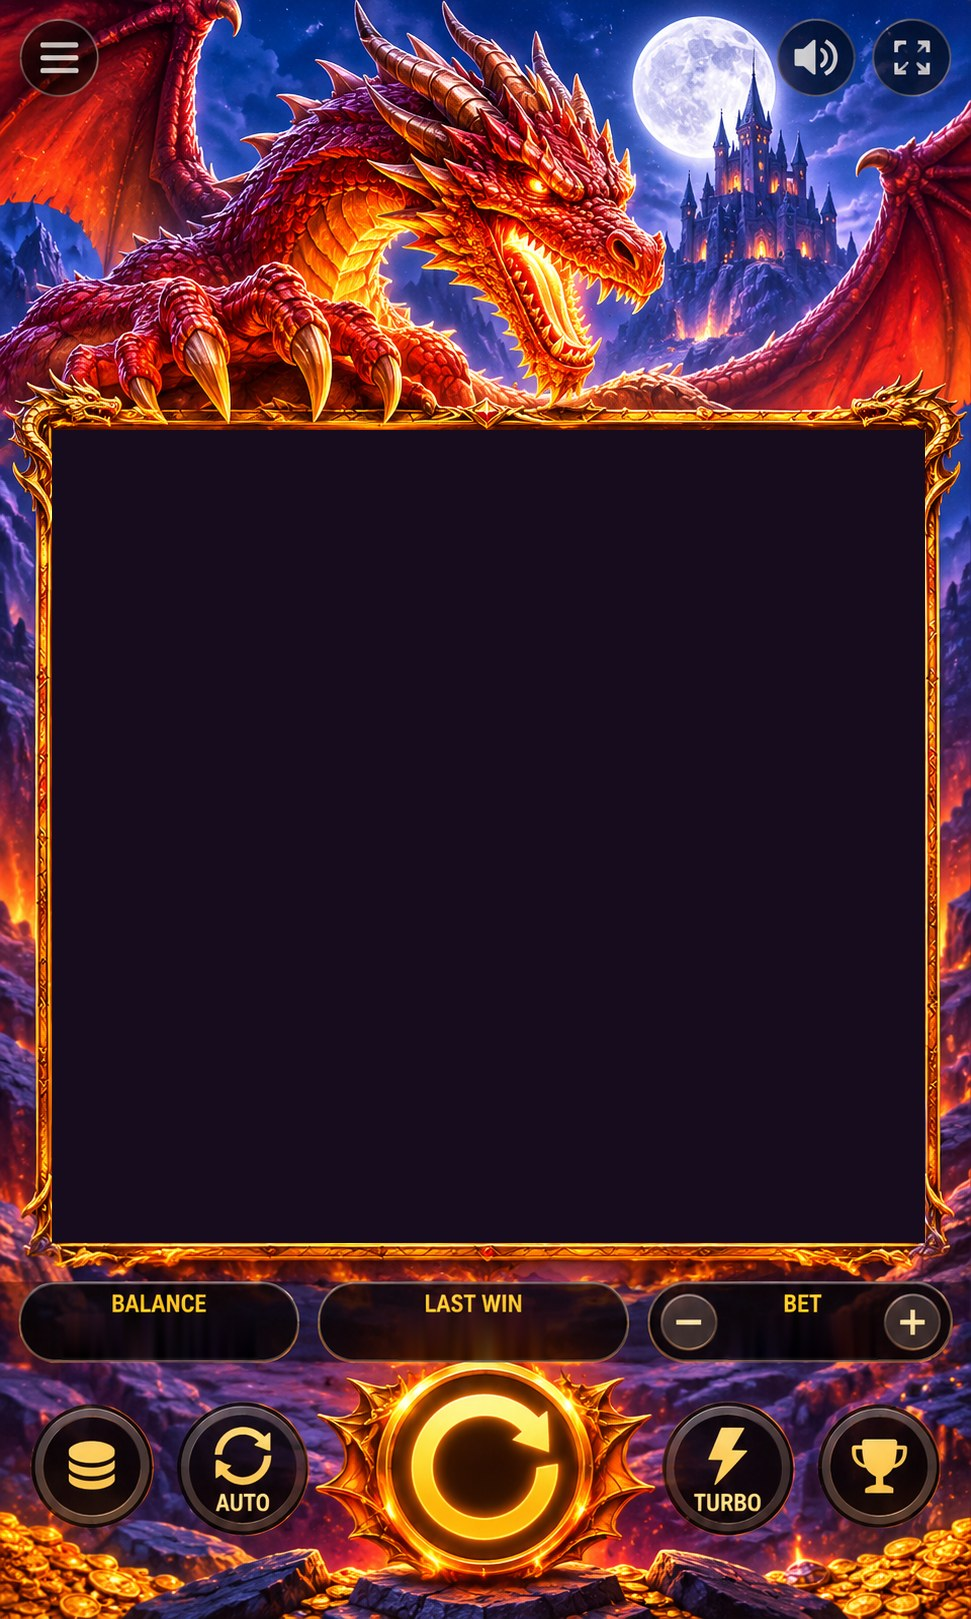
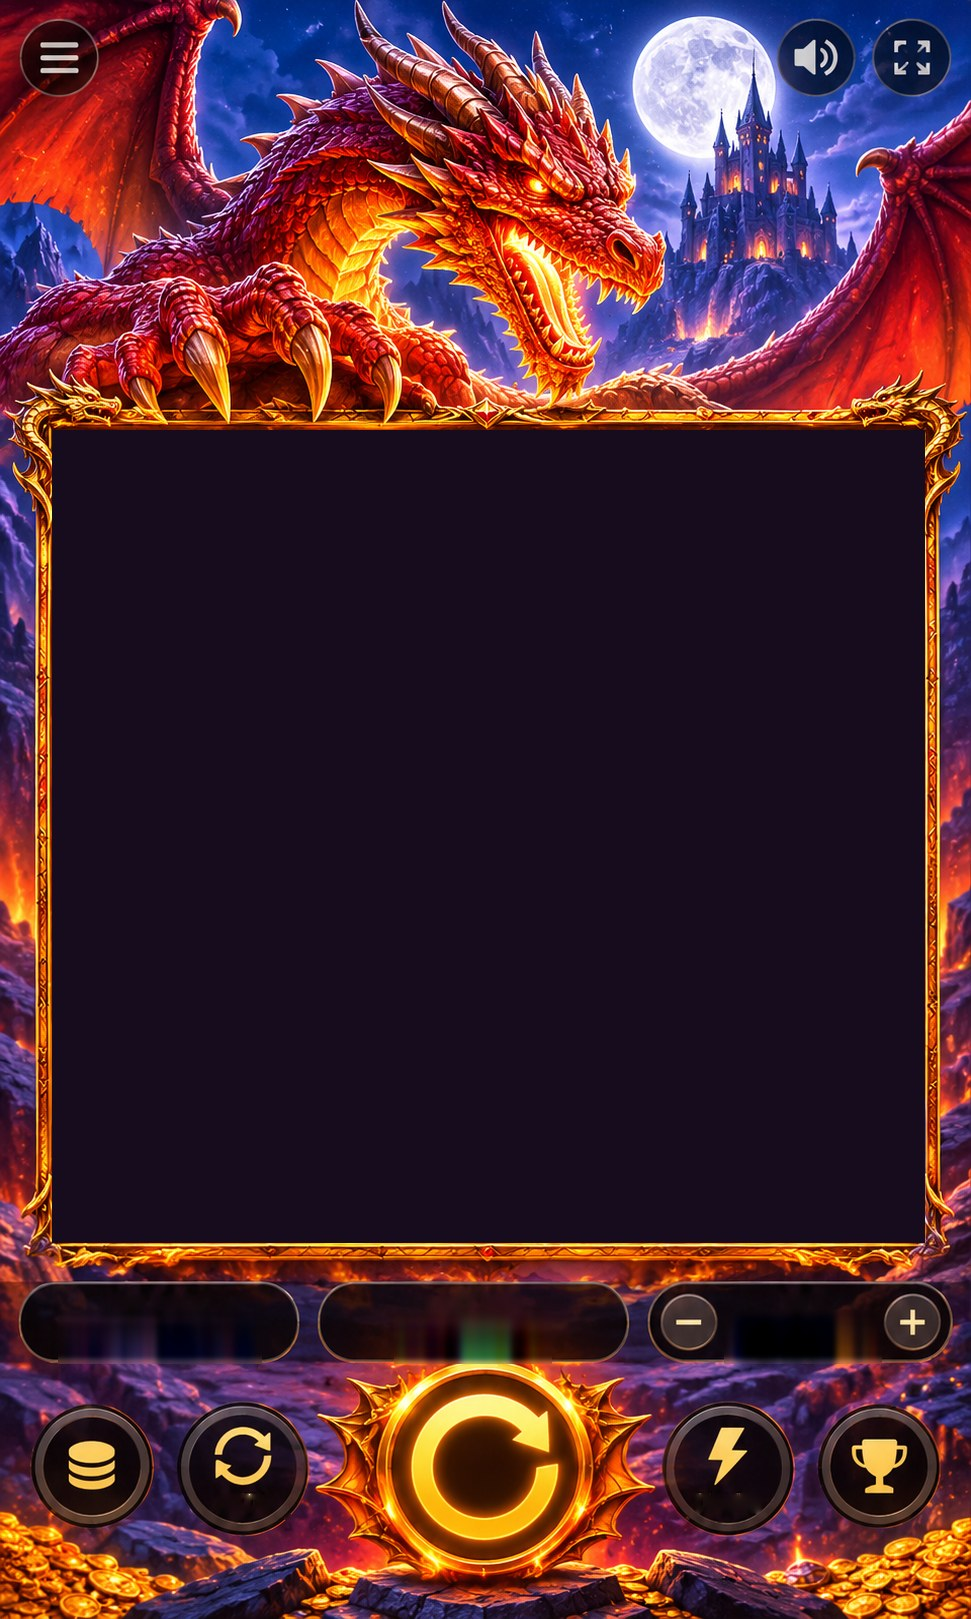
Translate every in-game text, including captions baked into skin art
- Slicers inpaint baked captions out of the art (harmonic fill over a
  dilated glyph mask): dragon BALANCE / LAST WIN / BET, AUTO, TURBO;
  classic MEGA JACKPOT, BALANCE / BET / WIN, SPIN, AUTO SPIN, INFO.
  Value-text erasing also improved (labels first, no streaks).
- Captions are drawn back from i18n keys label.* / button.* at new
  skin.ui *Label anchors; SpriteButton.setLabel() adds button captions
  (shrink-to-fit via engine fitText, hidden in spin stop mode).
- Remaining strings translated: lobby logo, paytable iframe title,
  close button, "unavailable" message. en + ru keys added.
- check.mjs rejects hardcoded `new Text('…')` / `.text = '…'` strings.

Claude-Session: https://claude.ai/code/session_019R4DonhDGP4cLcYWmf4oad

diff --git a/src/engine/ui/SpriteButton.ts b/src/engine/ui/SpriteButton.ts
@@ -1,15 +1,20 @@
-import { Circle, Container, Graphics, Sprite, type Texture } from 'pixi.js';
+import { Circle, Container, Graphics, Sprite, type Text, type Texture } from 'pixi.js';
+import { fitText } from './fitText';
 
 const DISABLED_TINT = 0x6A6A6A;
 
 /**
  * Round button made from a sprite sliced out of a skin mockup.
  * Positioned by its centre. Supports enabled/disabled (tint) and a toggled
- * "active" state rendered as a pulsing glow ring.
+ * "active" state rendered as a pulsing glow ring. Captions baked into the art
+ * are erased by the slicer and re-added as translated Text via setLabel().
  */
 export class SpriteButton {
   readonly container: Container;
+  /** Sprite + labels; scaled on press, rotated by subclasses. */
+  protected readonly face = new Container();
   protected readonly sprite: Sprite;
+  protected label: Text | null = null;
   private glow: Graphics;
   private _enabled = true;
   private _active = false;
@@ -26,7 +31,8 @@ export class SpriteButton {
     this.sprite = new Sprite(texture);
     this.sprite.anchor.set(0.5);
     this.sprite.scale.set(this.scale);
-    this.container.addChild(this.sprite);
+    this.face.addChild(this.sprite);
+    this.container.addChild(this.face);
 
     this.glow = new Graphics();
     this.glow.visible = false;
@@ -34,13 +40,24 @@ export class SpriteButton {
 
     this.container.on('pointerdown', () => {
       if (!this._enabled) return;
-      this.sprite.scale.set(this.scale * 0.94);
+      this.face.scale.set(0.94);
       this.onClickCallback?.();
     });
-    const release = () => this.sprite.scale.set(this.scale);
+    const release = () => this.face.scale.set(1);
     this.container.on('pointerup', release);
     this.container.on('pointerupoutside', release);
     this.container.on('pointerout', release);
+  }
+
+  /** Caption at (dx, dy) from the centre, shrunk to fit maxWidth (game px). */
+  setLabel(text: Text, dx: number, dy: number, maxWidth: number): void {
+    this.label?.destroy();
+    this.label = text;
+    text.anchor.set(0.5);
+    text.position.set(dx, dy);
+    fitText(text, maxWidth);
+    text.alpha = this._enabled ? 1 : 0.55;
+    this.face.addChild(text);
   }
 
   setPosition(x: number, y: number): void {
@@ -51,6 +68,7 @@ export class SpriteButton {
     this._enabled = value;
     this.container.cursor = value ? 'pointer' : 'default';
     this.sprite.tint = value ? 0xFFFFFF : DISABLED_TINT;
+    if (this.label) this.label.alpha = value ? 1 : 0.55;
   }
 
   get enabled(): boolean {

diff --git a/src/games/classic/views/ClassicHUD.ts b/src/games/classic/views/ClassicHUD.ts
@@ -2,6 +2,7 @@ import { Container, Graphics, Text, TextStyle } from 'pixi.js';
 import { formatMoney, t, type Hud } from '@/engine';
 import { config, uiAnchor, type UiAnchorName } from '../config';
 import { JackpotTicker } from './JackpotTicker';
+import { skinLabel } from './labels';
 
 const FONT = '"Roboto Condensed", "Arial Narrow", Arial, Helvetica, sans-serif';
 const VALUE_STYLE = new TextStyle({
@@ -11,6 +12,23 @@ const VALUE_STYLE = new TextStyle({
 const WIN_STYLE = new TextStyle({ ...VALUE_STYLE, fill: ['#FFF4C2', '#FFD54A', '#F0A020'] });
 const MESSAGE_STYLE = new TextStyle({
   fontFamily: FONT, fontSize: 15, fontWeight: 'bold', fill: 0xFFE7A3, letterSpacing: 0.5,
+});
+/** Captions replacing the erased baked texts. */
+export const CLASSIC_LABEL_STYLE = new TextStyle({
+  fontFamily: FONT, fontSize: 19, fontWeight: 'bold', fill: ['#FFE7A0', '#F5C04A'],
+  stroke: 0x10224A, strokeThickness: 3,
+});
+export const CLASSIC_BUTTON_STYLE = new TextStyle({
+  fontFamily: FONT, fontSize: 19, fontWeight: 'bold', fill: 0xFFFFFF, align: 'center', lineHeight: 18,
+  stroke: 0x0A2A66, strokeThickness: 3,
+});
+export const CLASSIC_SPIN_STYLE = new TextStyle({
+  fontFamily: FONT, fontSize: 30, fontWeight: 'bold', fill: 0xFFFFFF,
+  stroke: 0x0B5A14, strokeThickness: 4, dropShadow: true, dropShadowDistance: 2, dropShadowAlpha: 0.5,
+});
+const JACKPOT_LABEL_STYLE = new TextStyle({
+  fontFamily: FONT, fontSize: 22, fontWeight: 'bold', fill: ['#FFF2B8', '#F2B23A'],
+  stroke: 0x6A0E0E, strokeThickness: 4,
 });
 const money = (v: number) => formatMoney(config, v);
 
@@ -36,7 +54,13 @@ export class ClassicHUD implements Hud {
   }
 
   addToStage(stage: Container): void {
-    stage.addChild(this.jackpot.text, this.balance, this.bet, this.win, this.messageBg, this.message);
+    stage.addChild(
+      skinLabel('jackpotLabel', 'label.megaJackpot', JACKPOT_LABEL_STYLE),
+      skinLabel('balanceLabel', 'label.balance', CLASSIC_LABEL_STYLE),
+      skinLabel('betLabel', 'label.bet', CLASSIC_LABEL_STYLE),
+      skinLabel('winLabel', 'label.win', CLASSIC_LABEL_STYLE),
+      this.jackpot.text, this.balance, this.bet, this.win, this.messageBg, this.message,
+    );
   }
 
   update(dt: number): void {

diff --git a/src/engine/ui/HtmlPaytable.ts b/src/engine/ui/HtmlPaytable.ts
@@ -1,6 +1,6 @@
 import type { SlotConfig } from '../config/SlotConfig';
 import { fetchText, paytableUrl } from '../content/cdn';
-import { FALLBACK_LANG, i18n } from '../i18n/I18n';
+import { FALLBACK_LANG, i18n, t } from '../i18n/I18n';
 import { renderPaytable } from './paytableTemplate';
 
 /**
@@ -23,13 +23,13 @@ export class HtmlPaytable {
 
     this.frame = document.createElement('iframe');
     this.frame.setAttribute('sandbox', '');
-    this.frame.setAttribute('title', 'Paytable');
+    this.frame.setAttribute('title', t('paytable.title'));
     Object.assign(this.frame.style, { width: '100%', height: '100%', border: '0', display: 'block' });
 
     const close = document.createElement('button');
     close.type = 'button';
     close.textContent = '✕';
-    close.setAttribute('aria-label', 'Close');
+    close.setAttribute('aria-label', t('paytable.close'));
     Object.assign(close.style, {
       position: 'absolute', top: '12px', right: '12px', width: '40px', height: '40px', borderRadius: '50%',
       border: '2px solid rgba(255,214,90,.9)', background: 'rgba(10,10,20,.85)', color: '#FFD65A',
@@ -57,8 +57,8 @@ export class HtmlPaytable {
       this.frame.srcdoc = renderPaytable(html, this.cfg, totalBet, url.slice(0, url.lastIndexOf('/') + 1));
     } catch (err) {
       console.error('[HtmlPaytable]', err);
-      this.frame.srcdoc = '<body style="background:#000;color:#fff;font:16px Arial;padding:80px 24px;text-align:center">'
-        + 'Paytable is unavailable. Check your connection and try again.</body>';
+      const msg = t('paytable.unavailable').replace(/[<>&]/g, '');
+      this.frame.srcdoc = `<body style="background:#000;color:#fff;font:16px Arial;padding:80px 24px;text-align:center">${msg}</body>`;
     }
   }
 

diff --git a/src/games/dragon/views/DragonHUD.ts b/src/games/dragon/views/DragonHUD.ts
@@ -1,6 +1,7 @@
 import { Text, TextStyle, Container, Graphics } from 'pixi.js';
 import { formatMoney as fmt, t, type Hud } from '@/engine';
 import { config, uiAnchor, type UiAnchorName } from '../config';
+import { skinLabel } from './labels';
 
 const formatMoney = (minor: number) => fmt(config, minor);
 
@@ -12,6 +13,11 @@ const VALUE_STYLE = new TextStyle({
 });
 const WIN_VALUE_STYLE = new TextStyle({
   ...VALUE_STYLE, fill: ['#FFF6C8', '#FFC93C', '#FF9A1F'], fillGradientStops: [0, 0.5, 1],
+});
+/** Gold captions over the panels (replace the erased baked BALANCE / LAST WIN / BET). */
+export const DRAGON_LABEL_STYLE = new TextStyle({
+  fontFamily: FONT, fontSize: 13, fontWeight: 'bold', fill: ['#FFE9A6', '#F2B84B'],
+  dropShadow: true, dropShadowColor: 0x000000, dropShadowDistance: 1, dropShadowBlur: 1, dropShadowAlpha: 0.8,
 });
 const MESSAGE_STYLE = new TextStyle({
   fontFamily: FONT, fontSize: 15, fontWeight: 'bold', fill: 0xFFE7A3,
@@ -47,7 +53,12 @@ export class DragonHUD implements Hud {
   }
 
   addToStage(stage: Container): void {
-    stage.addChild(this.balanceValue, this.lastWinValue, this.betValue, this.messageBg, this.message);
+    stage.addChild(
+      skinLabel('balanceLabel', 'label.balance', DRAGON_LABEL_STYLE),
+      skinLabel('lastWinLabel', 'label.lastWin', DRAGON_LABEL_STYLE),
+      skinLabel('betLabel', 'label.bet', DRAGON_LABEL_STYLE),
+      this.balanceValue, this.lastWinValue, this.betValue, this.messageBg, this.message,
+    );
   }
 
   private setMessage(text: string): void {

diff --git a/src/games/classic/views/ClassicView.ts b/src/games/classic/views/ClassicView.ts
@@ -4,7 +4,8 @@ import {
 } from '@/engine';
 import { config, SKIN_SCALE, uiAnchor, type UiAnchorName } from '../config';
 import { backgroundTexture, uiTexture, type UiSpriteName } from '../assets';
-import { ClassicHUD } from './ClassicHUD';
+import { ClassicHUD, CLASSIC_BUTTON_STYLE, CLASSIC_SPIN_STYLE } from './ClassicHUD';
+import { labelButton } from './labels';
 
 /** "777 Casino Classic" skin: background art + every button over its baked spot. */
 export class ClassicView implements GameView {
@@ -22,6 +23,9 @@ export class ClassicView implements GameView {
     this.auto.onClick(actions.toggleAutoplay);
     this.info.onClick(actions.openPaytable);
     this.infoI.onClick(actions.togglePaytable);
+    labelButton(this.spinButton, 'spinLabel', 'button.spin', CLASSIC_SPIN_STYLE);
+    labelButton(this.auto, 'autoLabel', 'button.autoSpin', CLASSIC_BUTTON_STYLE);
+    labelButton(this.info, 'infoLabel', 'button.info', CLASSIC_BUTTON_STYLE);
   }
 
   private get buttons(): SpriteButton[] {

diff --git a/src/games/dragon/views/DragonView.ts b/src/games/dragon/views/DragonView.ts
@@ -4,7 +4,8 @@ import {
 } from '@/engine';
 import { config, SKIN_SCALE, uiAnchor } from '../config';
 import { backgroundTexture, uiTexture, type UiSpriteName } from '../assets';
-import { DragonHUD } from './DragonHUD';
+import { DragonHUD, DRAGON_LABEL_STYLE } from './DragonHUD';
+import { labelButton } from './labels';
 
 /** Skin background + every button placed exactly over its baked spot. */
 export class DragonView implements GameView {
@@ -26,6 +27,8 @@ export class DragonView implements GameView {
     this.auto.onClick(actions.toggleAutoplay);
     this.turbo.onClick(actions.toggleQuickSpin);
     this.trophy.onClick(actions.openPaytable);
+    labelButton(this.auto, 'autoLabel', 'button.auto', DRAGON_LABEL_STYLE);
+    labelButton(this.turbo, 'turboLabel', 'button.turbo', DRAGON_LABEL_STYLE);
     this.menu.onClick(actions.togglePaytable);
 
     // The fullscreen icon is baked into the background; this is its hit zone.

diff --git a/src/games/dragon/config.ts b/src/games/dragon/config.ts
@@ -10,10 +10,10 @@ export const SKIN_SCALE = config.canvas.width / raw.skin.sourceWidth;
 
 export type UiAnchorName = keyof typeof raw.skin.ui;
 
-/** Skin UI anchor converted from source-mockup to game coordinates. */
-export function uiAnchor(name: UiAnchorName): { x: number; y: number; r: number } {
-  const a: { x: number; y: number; r?: number } = raw.skin.ui[name];
-  return { x: a.x * SKIN_SCALE, y: a.y * SKIN_SCALE, r: (a.r ?? 0) * SKIN_SCALE };
+/** Skin UI anchor converted from source-mockup to game coordinates (r = hit radius, w = max label width). */
+export function uiAnchor(name: UiAnchorName): { x: number; y: number; r: number; w: number } {
+  const a: { x: number; y: number; r?: number; w?: number } = raw.skin.ui[name];
+  return { x: a.x * SKIN_SCALE, y: a.y * SKIN_SCALE, r: (a.r ?? 0) * SKIN_SCALE, w: (a.w ?? 0) * SKIN_SCALE };
 }
 
 export const REEL_STRIPS: string[][] = raw.reels;

diff --git a/src/games/classic/views/labels.ts b/src/games/classic/views/labels.ts
@@ -1,0 +1,19 @@
+import { Text, type TextStyle } from 'pixi.js';
+import { fitText, t, type SpriteButton } from '@/engine';
+import { uiAnchor, type UiAnchorName } from '../config';
+
+/** Translated caption placed on a skin anchor (art text was erased by the slicer). */
+export function skinLabel(anchor: UiAnchorName, key: string, style: TextStyle): Text {
+  const a = uiAnchor(anchor);
+  const text = new Text(t(key), style);
+  text.anchor.set(0.5);
+  text.position.set(a.x, a.y);
+  return fitText(text, a.w);
+}
+
+/** Translated caption on a button; the anchor is absolute, converted to a button offset. */
+export function labelButton(button: SpriteButton, anchor: UiAnchorName, key: string, style: TextStyle): void {
+  const a = uiAnchor(anchor);
+  const c = button.container.position;
+  button.setLabel(new Text(t(key), style), a.x - c.x, a.y - c.y, a.w);
+}

diff --git a/src/games/dragon/views/labels.ts b/src/games/dragon/views/labels.ts
@@ -1,0 +1,19 @@
+import { Text, type TextStyle } from 'pixi.js';
+import { fitText, t, type SpriteButton } from '@/engine';
+import { uiAnchor, type UiAnchorName } from '../config';
+
+/** Translated caption placed on a skin anchor (art text was erased by the slicer). */
+export function skinLabel(anchor: UiAnchorName, key: string, style: TextStyle): Text {
+  const a = uiAnchor(anchor);
+  const text = new Text(t(key), style);
+  text.anchor.set(0.5);
+  text.position.set(a.x, a.y);
+  return fitText(text, a.w);
+}
+
+/** Translated caption on a button; the anchor is absolute, converted to a button offset. */
+export function labelButton(button: SpriteButton, anchor: UiAnchorName, key: string, style: TextStyle): void {
+  const a = uiAnchor(anchor);
+  const c = button.container.position;
+  button.setLabel(new Text(t(key), style), a.x - c.x, a.y - c.y, a.w);
+}

diff --git a/src/games/classic/config.ts b/src/games/classic/config.ts
@@ -16,8 +16,8 @@ export const JACKPOT = raw.skin.jackpot;
 
 export type UiAnchorName = keyof typeof raw.skin.ui;
 
-/** Skin UI anchor converted from source-mockup to game coordinates. */
-export function uiAnchor(name: UiAnchorName): { x: number; y: number; r: number } {
-  const a: { x: number; y: number; r?: number } = raw.skin.ui[name];
-  return { x: a.x * SKIN_SCALE, y: a.y * SKIN_SCALE, r: (a.r ?? 0) * SKIN_SCALE };
+/** Skin UI anchor converted from source-mockup to game coordinates (r = hit radius, w = max label width). */
+export function uiAnchor(name: UiAnchorName): { x: number; y: number; r: number; w: number } {
+  const a: { x: number; y: number; r?: number; w?: number } = raw.skin.ui[name];
+  return { x: a.x * SKIN_SCALE, y: a.y * SKIN_SCALE, r: (a.r ?? 0) * SKIN_SCALE, w: (a.w ?? 0) * SKIN_SCALE };
 }

diff --git a/src/engine/ui/SpriteSpinButton.ts b/src/engine/ui/SpriteSpinButton.ts
@@ -55,7 +55,8 @@ export class SpriteSpinButton extends SpriteButton implements SpinControl {
     this._isStopMode = stop;
     this.enabled = true;
     this.stopOverlay.visible = stop;
-    if (!stop) this.sprite.rotation = 0;
+    if (this.label) this.label.visible = !stop;
+    if (!stop) this.face.rotation = 0;
   }
 
   /** Small wobble while the reels spin. */
@@ -63,6 +64,6 @@ export class SpriteSpinButton extends SpriteButton implements SpinControl {
     super.update(dt);
     if (!this._isStopMode) return;
     this.spinAngle += dt * 0.25;
-    this.sprite.rotation = Math.sin(this.spinAngle) * 0.03;
+    this.face.rotation = Math.sin(this.spinAngle) * 0.03;
   }
 }

diff --git a/src/engine/index.ts b/src/engine/index.ts
@@ -11,6 +11,7 @@ export { ReelStripMath } from './math/ReelStripMath';
 export { SlotGame } from './core/SlotGame';
 export { fitCanvas, goToLobby } from './core/fitCanvas';
 export { SpriteButton } from './ui/SpriteButton';
+export { fitText } from './ui/fitText';
 export { SpriteSpinButton, type SpinButtonStyle } from './ui/SpriteSpinButton';
 export { i18n, t, detectLanguage, ENGINE_STRINGS, FALLBACK_LANG } from './i18n/I18n';
 export { CONTENT_CDN, cdnUrl } from './content/cdn';
